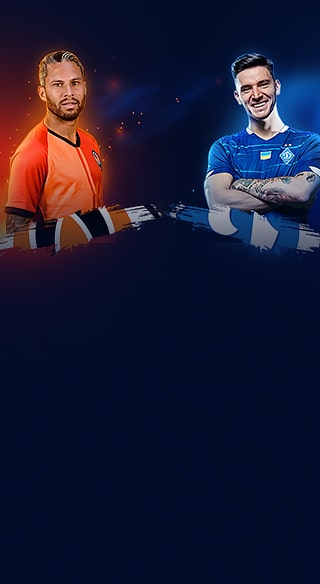
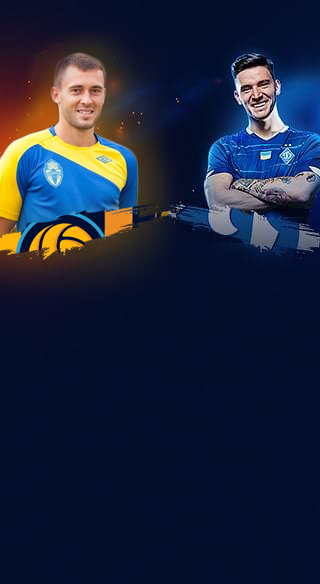
LastCommits
агробизнес динамо

diff --git a/index.html b/index.html
@@ -40,21 +40,21 @@
 
 				<div class="content text-center">
 
-					<div class="tur">Матч 22-го тура</div>
-					<div class="upl">чемпионата Украины</div>
+					<div class="tur">ПОЛУФИНАЛ</div>
+					<div class="upl">Кубка Украины</div>
 
 					<div class="team">
-						<div class="t1"><img src="images/src/t1.png" alt=""></div>
-						<div class="time">17.04</div>
+						<div class="t1"><img src="images/dest/t11.png" alt=""></div>
+						<div class="time">21.04</div>
 						<div class="t2"><img src="images/src/t2.png" alt=""></div>
 					</div>
 
-					<div class="hero">шахтер <span>v</span> Динамо Киев</div>
+					<div class="hero">Агробизнес <span>v</span> Динамо Киев</div>
 
 					<div class="slog">Знаешь кто <span>победит</span>?</div>
 
 
-					<a class="btn" href="https://bit.ly/3mRLtXf">
+					<a class="btn" href="https://bit.ly/3sAOBrC">
 						сделать ставку
 					</a>
 
@@ -63,7 +63,7 @@
 
 			<div class="parallax" id="scene">
 				<div class="layer l-left" data-depth="0.1">
-					<img class="player player-1" src="images/src/1-min.png" alt="">
+					<img class="player player-1" src="images/dest/11-min.png" alt="">
 				</div>
 				<div class="layer l-right" data-depth="0.1">
 					<img class="player player-2" src="images/src/2-min.png" alt="">
